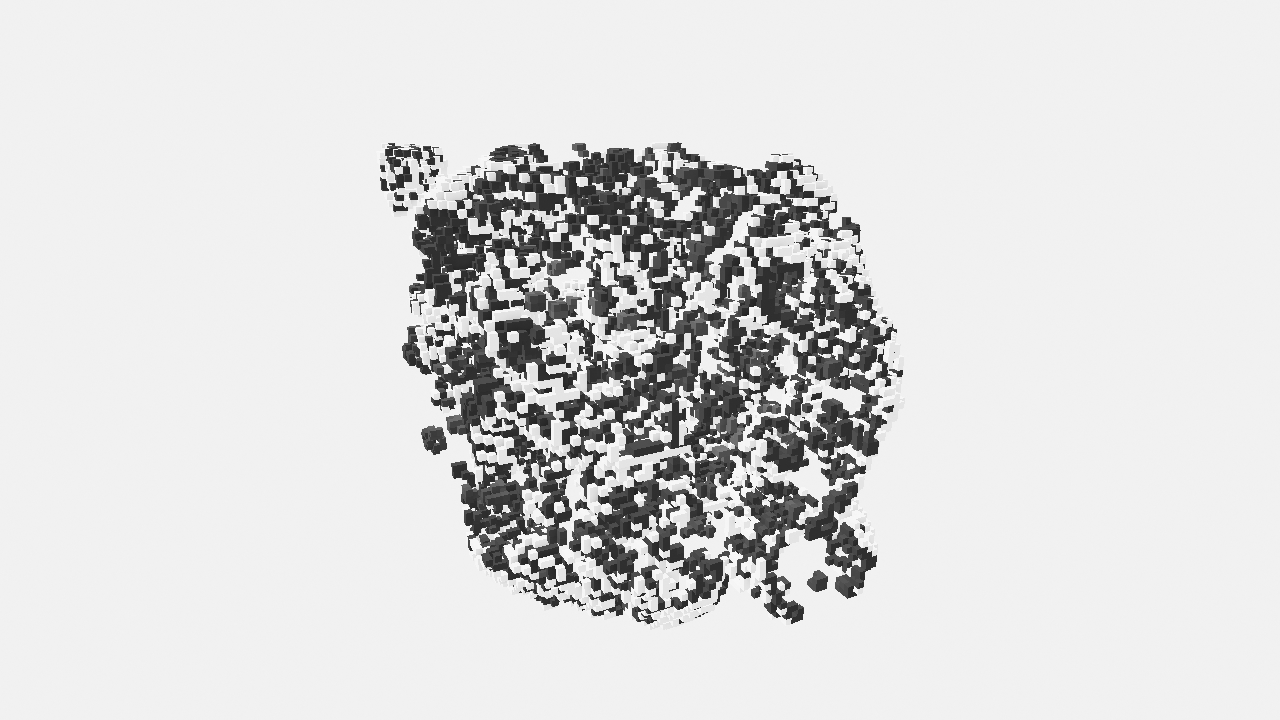
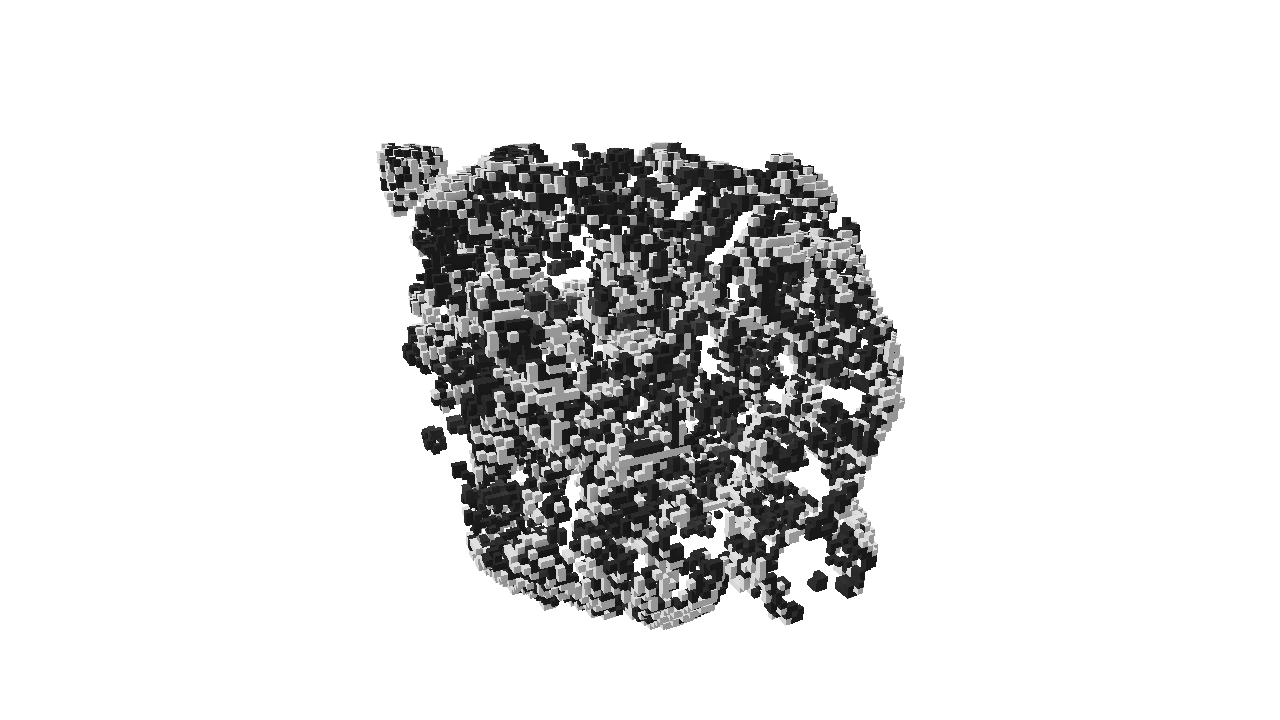
docs(presets): document the paper backdrop and pin its golden (Plan 0257 Phase 3)
backdrop_paper joins the golden suite's extra fixtures, blessed on
lavapipe: the one baseline that reaches the transparent backdrop clear,
the paper pipeline and the tonemap's OVER write.

presets/README.md gains a Paper section beside the other bg_* params:
what paper is not, coverage over additive light, no dither, multiply,
ink, the dissolve cut, and the bg_hue = 1 wrap seam. docs/presets.md and
docs/how-it-works.md name the route in their pass descriptions, and the
voxel solid teaching picture is re-shot on white.

The frame-time probe and the skill text for the owner are in the plan's
implementation log.

Changed region(s): [[0.2812, 0.1833, 0.7188, 0.8861]]

diff --git a/core/tests/golden.rs b/core/tests/golden.rs
@@ -160,6 +160,10 @@ fn fixture(system: SystemKind) -> (&'static str, &'static str) {
 ///   never stops at a live cell and the face normal, the key light and the
 ///   ambient occlusion are unreached. A solid ball at 32³, its terraces' inner
 ///   edges darkened by the occlusion.
+/// - `backdrop_paper` — every other fixture runs `bg_paper = 0`, so the
+///   transparent backdrop clear, the paper pipeline at the surface format and
+///   the tonemap's OVER write are unreached (ADR-0270). A solid voxel block on
+///   a white paper.
 ///
 /// **Captured after the roster loop, and appended rather than inserted.** Every
 /// pre-existing baseline is therefore rendered from the device state it always
@@ -167,7 +171,7 @@ fn fixture(system: SystemKind) -> (&'static str, &'static str) {
 /// where building GPU resources mid-run is documented to change what a later
 /// capture resolves to (a WARP reading, unverified on lavapipe as of
 /// 2026-10-06). For the same reason a new entry goes at the **end**.
-const EXTRA_FIXTURES: [(&str, &str); 21] = [
+const EXTRA_FIXTURES: [(&str, &str); 22] = [
     (
         "attractor_depth",
         include_str!("fixtures/attractor_depth.toml"),
@@ -227,6 +231,10 @@ const EXTRA_FIXTURES: [(&str, &str); 21] = [
     (
         "voxel_solid_ao",
         include_str!("fixtures/voxel_solid_ao.toml"),
+    ),
+    (
+        "backdrop_paper",
+        include_str!("fixtures/backdrop_paper.toml"),
     ),
 ];
 

diff --git a/presets/README.md b/presets/README.md
@@ -3414,6 +3414,69 @@ strips `bg_*` bindings before scoring motion
 so a galaxy earns a preset **nothing** at either. The figure and any `[layer]` carry both floors, no
 matter how much of the frame the sky fills.
 
+#### Paper — `bg_paper`
+
+Everything above paints **light**, before the tonemap, and the tonemap's shoulder never reaches 1:
+`bg_bright = 1` over a white stop comes out a light grey, and no `bg_*` value gives display white.
+`bg_paper = 1` paints the same backdrop as **paper** instead
+([ADR-0270](../docs/adrs/0270-a-paper-backdrop-is-painted-after-the-tonemap-and-the-scene-lies-over-it-by-coverage.md)).
+
+| Param | Default | What it does |
+|---|---|---|
+| `bg_paper` | `0` | `0` paints the backdrop as light, everything above. `1` paints it as paper, under the finished picture. Structural: read as on at `0.5` and above, with nothing in between. |
+
+At `1` the frame starts transparent, the scene and the post chain draw as they always do, and the
+tonemap turns their light into a picture. The backdrop is then painted underneath at display
+values, and the picture is laid over it by the scene's own coverage: a pixel reads
+`tonemap(scene) + (1 - coverage) * paper`. Every `bg_*` param above keeps its meaning — the ramp, the
+fan, the band, the vignette — except that `bg_bright` is now a display value, not a light. So:
+
+- **A `#ffffff` stop at `bg_bright = 1` is 255**, and a pixel the scene fully covers is exactly what
+  it would be over black. The figure is not lifted to get a white ground, which is what binding
+  `exposure` up does.
+- **Paper is not light.** It does not bloom, the kaleidoscope does not fold it, `trails` do not
+  smear it, and `exposure` does not move it. A preset that switches between the two routes changes
+  how its ground answers every one of those.
+- **Additive light over paper composites by its coverage, not by adding.** A swarm particle on white
+  reads as a coloured mark, not as a brighter spot, because adding light to white has nowhere to go.
+  Content written for a black ground does not port to paper unchanged; an opaque figure, such as a
+  `present = "solid"` voxel, is what paper is for.
+- **A gradient on paper is not dithered.** The display write's dither covers the scene only. A flat
+  paper cannot band; a paper ramp at 8 bits can.
+- **`multiply` cannot darken the paper.** The paper is under the whole chain, so a `[layer]` with
+  `blend = "multiply"` has nothing to darken where the first layer is empty, and the paper shows
+  there unchanged — as a lit backdrop already does.
+- **Ink sees the paper.** Ink remaps the finished picture, ground included, so `ink_amount` on a
+  paper preset remaps its own page — a second way to lose the white.
+- **Two paper presets cut their grounds at a dissolve.** One paper is drawn per frame: the incoming
+  preset's when it has one, else the outgoing one's. Between a paper preset and a light one the
+  ground fades with its side.
+
+**The white has to be a stop the coordinate actually lands on.** `bg_hue = 1` sits on the
+palette's wrap seam: the coordinate repeats, so at exactly `1` the gradient's last colour is blended
+with its first. A palette from near-black at `0` to white at `1` gives a mid grey there, not white.
+End the palette on a short flat run and aim `bg_hue` inside it:
+
+```toml
+[palette]
+stops = [
+  { at = 0.0,  color = "#1e1e1e" },
+  { at = 0.6,  color = "#4a4a4a" },
+  { at = 0.98, color = "#ffffff" },
+  { at = 1.0,  color = "#ffffff" },
+]
+
+[params]
+bg_paper     = "1"
+bg_bright    = "1"
+bg_hue       = "0.99"
+bg_shade     = "1"
+bg_shade_end = "1"
+```
+
+`bg_shade` and `bg_shade_end` at `1` take out the ramp's default 0.72 tilt, which paper keeps like
+every other `bg_*` default.
+
 ### Backdrop occlusion — `occlude`
 
 **How much of the scene's coverage the backdrop resolves against**

diff --git a/docs/plans/0257-the-backdrop-reaches-paper-white.md b/docs/plans/0257-the-backdrop-reaches-paper-white.md
@@ -165,8 +165,8 @@ flowchart LR
 | phase | owner | state | commit |
 |---|---|---|---|
 | 1 — Walking skeleton: one preset on true white | dev | done | 9e026bb7 |
-| 2 — The dissolve and ink | dev | done | committed with this row |
-| 3 — Cost, the golden and the documentation | dev | not started | |
+| 2 — The dissolve and ink | dev | done | acf290cb |
+| 3 — Cost, the golden and the documentation | dev | done | committed with this row |
 | 4 — The owner's look and the skill text | human | not started | |
 
 ### Notes
@@ -200,6 +200,26 @@ flowchart LR
   `core/tests/background_composite.rs`. A dissolve finalizes without drawing its `t = 1` frame, so
   the test sets `t` (and the kind, to `Crossfade`) on the running `Transition`, which only a test
   inside `render/` can reach.
+- Phase 3 golden: `backdrop_paper` is `core/tests/fixtures/backdrop_paper.toml`, appended last to
+  `EXTRA_FIXTURES`. The harness refuses `RLX_BLESS=<stem>` for a stem with no PNG, so it was
+  written with `RLX_BLESS=1`; that run rewrote only `backdrop_ramp.png` and `backdrop_band.png`
+  (the two drifting readings above), and both were put back with `git restore`. The unblessed
+  re-run reads `backdrop_paper` mean 0.0000, max outlier 0.
+- Phase 3 probe: `shot --presets <scratch dir> --report --size 1920x1080 --tier floor`, release,
+  AMD Radeon Graphics (RADV RENOIR), Mesa 26.2.2, both twins of `docs/examples/voxel/solid.toml` in
+  one run, differing only in `bg_paper`. ms a frame: `bg_paper = 1` **4.296**, `bg_paper = 0`
+  **5.032**. The twins were not committed.
+- Phase 3 docs: the `bg_*` params are documented in `presets/README.md`'s "Background pass", not in
+  `docs/presets.md`, which names them only as a family. The full text is a new
+  `#### Paper — bg_paper` there (after the band, before `occlude`). It covers the not-light list,
+  coverage over additive light, no dither, `multiply`, ink, the dissolve cut, and the `bg_hue = 1`
+  wrap seam. `docs/presets.md` gains one paragraph after its pass-order diagram that points to it.
+- `docs/how-it-works.ru.md` translates `docs/how-it-works.md`, which gained a paragraph. Its
+  stamp now lags; `node scripts/check-translations.mjs` reports that as advisory only.
+- **For Phase 4**, the row `.claude/skills/preset-author/references/systems.md`'s
+  `## Engine-wide stages (any system)` table should gain after the `bg_band_hue` row:
+
+  > | `bg_paper` | `0` | **paper instead of light** (Plan 0257/ADR-0270). At `1` the frame starts transparent, the scene's light is tonemapped, and the same `bg_*` backdrop is painted *under* that picture at display values, laid over by the scene's coverage. A `#ffffff` stop at `bg_bright = 1` is display white (the light route stops at a light grey) and a fully covered pixel is exactly what it is over black, so **never lift the ground with `exposure`** — that lifts the figure too. Paper does not bloom, fold, trail or follow `exposure`; additive light over it reads as a coloured mark, not a brighter spot, so it suits an opaque figure (`present = "solid"`) far better than a glow; a paper gradient is not dithered; `multiply` and `ink` do not spare it. **`bg_hue = 1` is the palette's wrap seam** and blends the last stop with the first: end the palette on a flat white run (`0.98` and `1.0`) and aim `bg_hue` inside it (`0.99`), with `bg_shade` = `bg_shade_end` = `1`. Two paper presets cut their grounds at a dissolve. |
 
 ### Close triggers
 

diff --git a/docs/presets.md b/docs/presets.md
@@ -267,6 +267,18 @@ is the single place the frame becomes a displayable picture. That is why
 `bloom_threshold` can mean "brighter than the display could show" and why stacked
 strokes roll off with their colour intact instead of flattening to white.
 
+**`bg_paper = 1` moves the backdrop to the other side of that line.** The
+background pass then clears the frame transparent, the same `bg_*` gradient is
+painted after the tonemap, and the tonemapped scene is laid over it by its own
+coverage. A `#ffffff` stop at `bg_bright = 1` is display white, which the light
+route cannot reach, and a pixel the scene fully covers is exactly what it is over
+black. Paper is not light: it does not bloom, it is not folded by the
+kaleidoscope, it does not smear under `trails`, and `exposure` does not move it.
+Additive light over it composites by its coverage rather than adding, and a
+gradient on it is not dithered. The details and the traps are under
+[Paper](../presets/README.md#paper--bg_paper)
+([ADR-0270](adrs/0270-a-paper-backdrop-is-painted-after-the-tonemap-and-the-scene-lies-over-it-by-coverage.md)).
+
 **The post chain renders at the render target's own resolution.** `trails` and
 `kaleido_*` follow the target (quantized and capped) rather than a fixed grid, so
 composing either one costs no sharpness at any display size.

diff --git a/docs/how-it-works.md b/docs/how-it-works.md
@@ -156,6 +156,12 @@ frames, a screen-space kaleidoscope fold, a two-input dissolve that crossfades b
 preset and the incoming one, and a terminal ink tone-remap. A new rendering system inherits all of
 it — including dissolving into and out of every other preset — for free.
 
+The background can take a second route. As **paper** (`bg_paper = 1`) it leaves the chain: the
+frame starts transparent, the ground is painted after the scene's light has been turned into a
+picture, and the picture is laid over it by how much of each pixel the scene covers. A white ground
+is then true display white and the scene is not brightened to get there
+([ADR-0270](adrs/0270-a-paper-backdrop-is-painted-after-the-tonemap-and-the-scene-lies-over-it-by-coverage.md)).
+
 A system that draws in three dimensions does it through one shared camera. Its points and lines are
 projected through a real perspective lens, and a line's blur is worked out separately at each of its
 ends, so one line can run sharp through the focal plane and soften toward both ends. A blur applied
